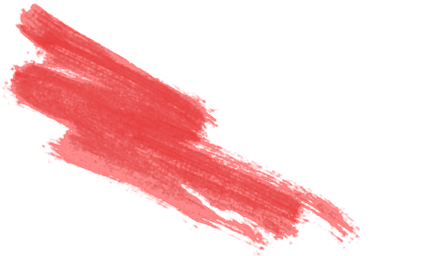
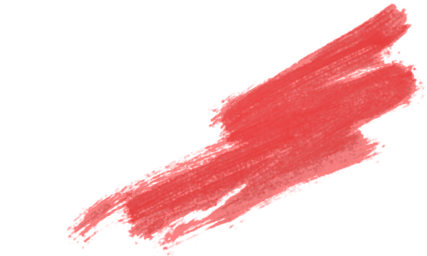
Added package.json, changed brush-stroke, some typography and layout geometry

diff --git a/index.html b/index.html
@@ -44,20 +44,19 @@
       ABOUT
     -->
     <section id="about">
-      <div class="container center">
+      <div class="container center bg-stroke">
         <div class="row">
-          <div id="column-1" class="column column-50 pull-left">
+          <div class="column column-50 pull-left" style="padding-bottom: 0">
             <p><big>Hello,</big></p>
             <p>my name is <strong>Arthur Xavier</strong> and I&#39;m a <strong>developer</strong>, a 20 years old Computer Science <strong>student</strong> at the Federal University of Minas Gerais in Brazil and an overall <strong>learner</strong>.</p>
             <p><strong>Excellence</strong> and <strong>passion</strong> are the keys to success and a happy professional life. Being able to make things happen is maybe the greatest virtue of the ones taking a shot in the technology branch and the opportunity of making an being the difference is what drives us all.</p>
-            <p>As an active self-taught developer with many years of experience I can say that coding is one of the greatest passions I have in my life, next to music and language learning.</p>
-            <p>As an amateur designer, I’ve learned that the search for balance and beauty and these qualities themselves are what impress people.</p>
+            <p>As an active self-taught developer with many years of experience I can say that coding is one of the greatest passions I have in my life, next to art, music and language learning.</p>
           </div>
 
           <div class="column column-50 pull-left">
             <img class="avatar center hide-on-mobile" src="img/avatar.jpg" />
-            <p><strong>I love</strong> getting to know and working with new technologies and trends. The <strong>state of the art</strong> is my state.</p>
-            <p><strong>Node.JS</strong>, the new hype, is my favourite. I'm deeply interested in functional programming and all its capabilities, foremost, the ability to write simple yet powerful code, which one can easily verify and reason about.</p>
+            <p><strong>I love</strong> getting to know and working with new technologies and trends. The <strong>state of the art</strong> is my art.</p>
+            <p><strong>Node.JS</strong>, the new hype, is my favourite. I'm also deeply interested in design, web development, functional programming and all its capabilities, foremost, the ability to write simple yet powerful code, which one can easily verify and reason about.</p>
           </div>
         </div>
       </div>

diff --git a/css/layout.css b/css/layout.css
@@ -99,9 +99,9 @@ body {
 ul { padding: 0 1.0em; margin: 0; }
 ul > li {
   list-style: none;
-  margin: 20px 0;
+  margin: 2.0rem 0;
 }
-ul > li div.round {
+ul > li .round {
   background-position: center;
   background-size: cover;
   border-radius: 50%;
@@ -176,10 +176,10 @@ section > .title {
 
 
 /* ABOUT */
-#about #column-1 {
+.bg-stroke {
   background-image: url(../img/brush-stroke.png);
-  background-position: bottom left;
-  background-size: 15.0rem;
+  background-position: bottom right;
+  background-size: 30.0rem;
   background-repeat: no-repeat no-repeat;
 }
 .avatar {

diff --git a/css/typography.css b/css/typography.css
@@ -91,7 +91,10 @@ em {
 }
 
 a { text-decoration: none; }
-a:hover { text-decoration: underline; }
+a:hover h1,
+a:hover h2,
+a:hover h3,
+a:hover h4 { text-decoration: underline; }
 
 @media (max-width: 767px) {
   big { font-size: 7.0rem; }
